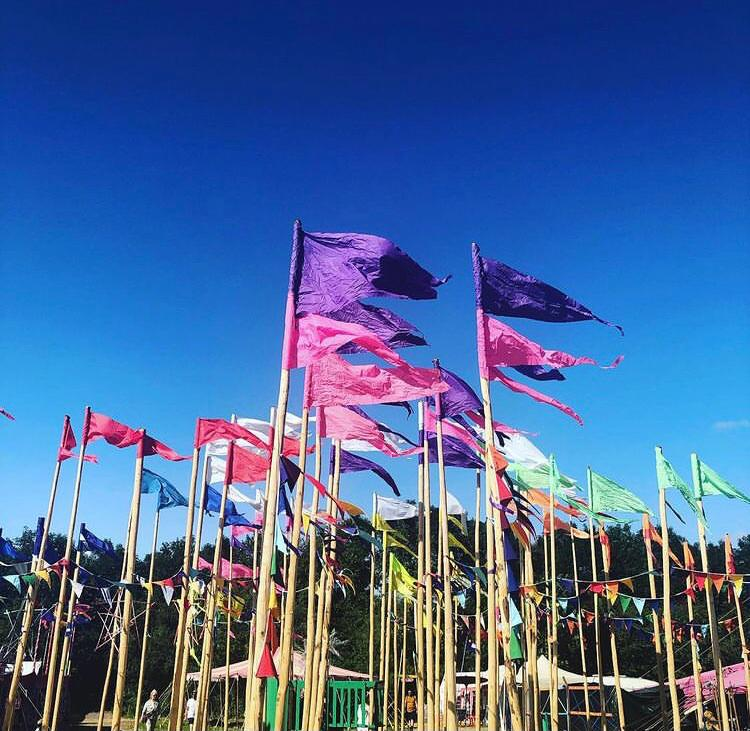
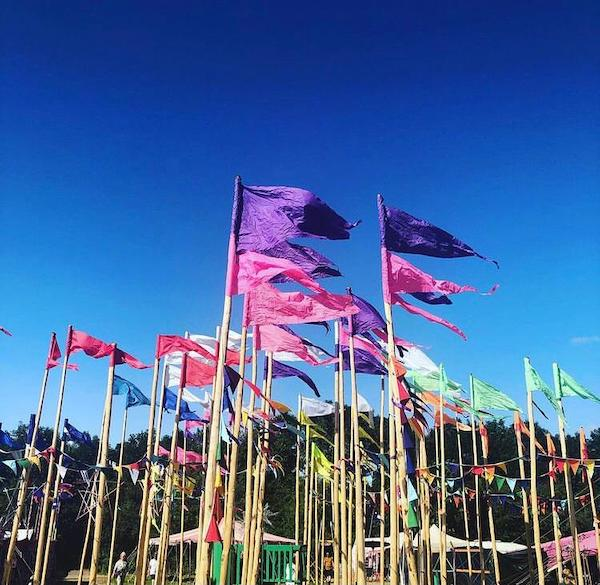
adjusted image sizing for top and bottom

diff --git a/webpage.html b/webpage.html
@@ -23,9 +23,10 @@
         <div class="sub-heading">    
             <h3>A festival wedding, we hear you ask? Think a mini Glastonbury, without the ticket drama! Picture a bloody great tent in a field by the sea, throw in a band, some great food and drink, a fire pit, garden games and singing and dancing our way into the night!
             </h3>
+        </div>
+        <div class="sub-heading">
             <img class="top-image" src="images/couple-shot.jpeg" alt="Emma & Ben pulling silly faces">
         </div>
-
         <div class="content-sections">
             <h2 class="content-headings">Where is it?</h2>
             <div class="content-info">
@@ -161,7 +162,10 @@
             <h3>We really hope you can make it - please RVSP to <span style="color: #0125f0">emmaperry20@hotmail.com</span> by April 30th 2022.</h3>
         </div>
     <!-- </section> -->
-    <img class="end-image" src="images/festival-flags.jpeg" alt="Multicoloured Festival festival-flags">
+    <div class="sub-heading">
+        <img class="end-image" src="images/festival-flags.jpeg" alt="Multicoloured Festival festival-flags">
+    </div>
+   
 
 </body>
 </html>

diff --git a/style.css b/style.css
@@ -43,7 +43,8 @@
   display: block;
   margin-left: auto;
   margin-right: auto;
-  width: 50%;
+  width: 40%;
+  border-radius: 8px;
 }
 
 .sub-heading {
